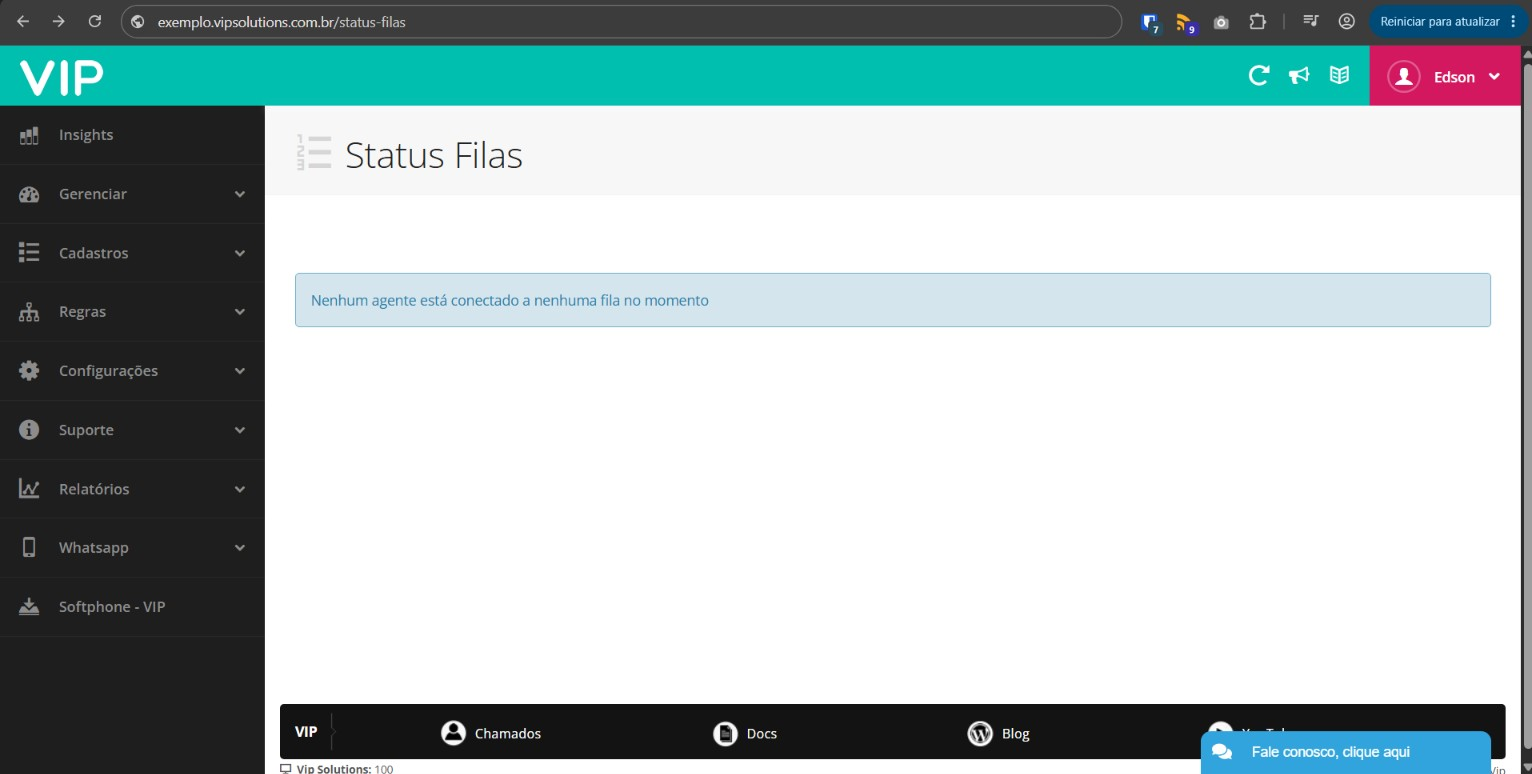
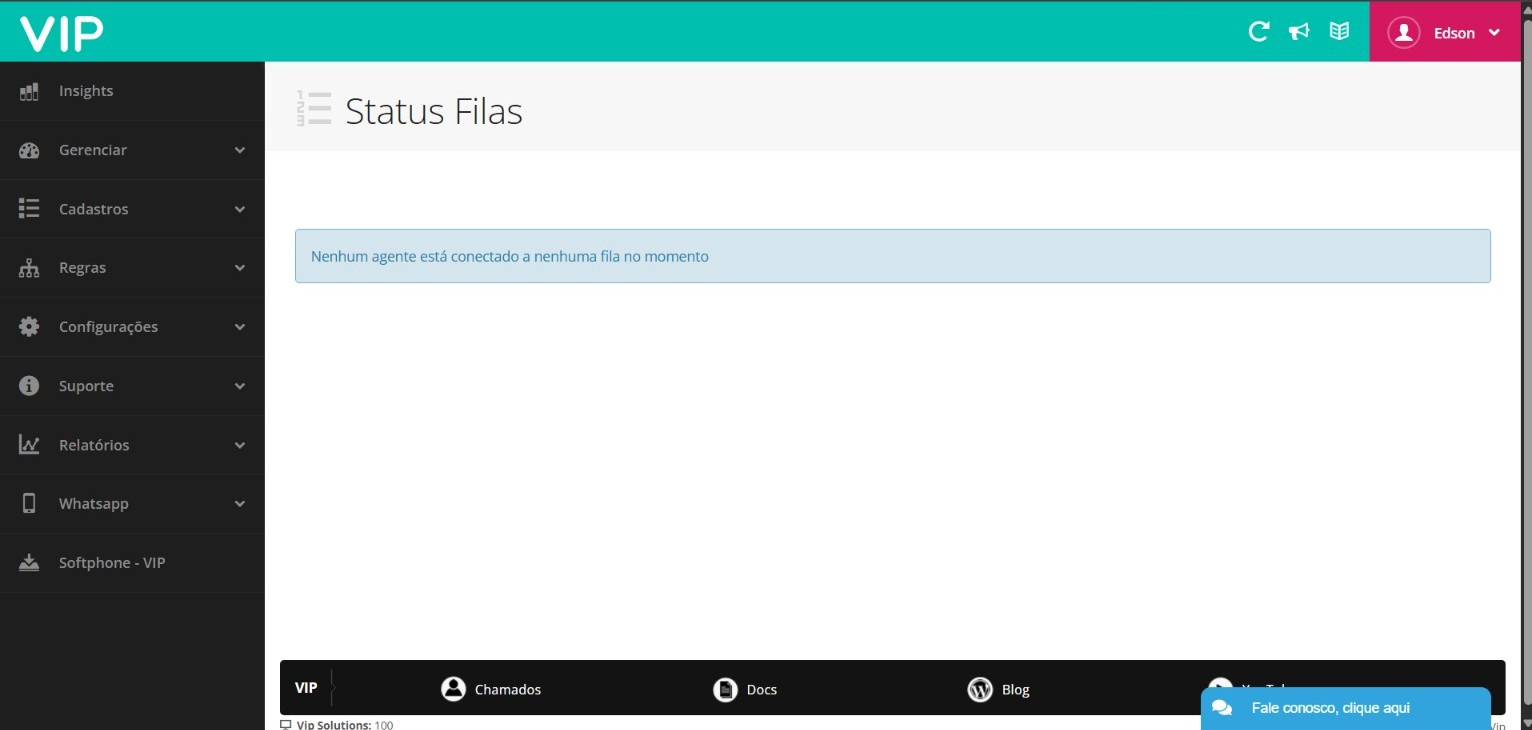
Ajuste no README e att do implantação de clientes

diff --git a/docs/suporte/implantacao-clientes.md b/docs/suporte/implantacao-clientes.md
@@ -63,4 +63,113 @@ Todas as informações do novo cliente ficam registradas via ticket no sistemas 
 
 Acesse o painel VIP correspondente ao servidor definido pela equipe de implantação, depois no menu lateral esquerdo > Gerenciar > Gerenciar uma Empresa, selecione a empresa do novo cliente.
 
-Inicie as configurações criando os ramais
+### Cadastrar Ramais
+
+Tela `Cadastros > Ramais`, nessa tela é necessário configurar:
+
+- Ramais individualmente ou em lote
+- O dispositivo que será utilizado: Telefone IP, Celular, PC, MicroVIP (VipPhone)
+- Senha de registro (importante definir uma senha dificil com letras e números)
+- Nome do ramal (para configuração individual)
+- Senha do ramal (senha de funcionalidade)
+- Qualidade (monitoria do ramal no VIP)
+- Ordem dos codecs (Ulaw, Alaw, g729)
+- Utiliza NAT em **sim**
+- Bina (número que aparece nas chamadas realizadas pelo ramal)
+
+### Grupo de chamada
+
+Tela `Cadastros > Grupo de chamada`
+
+Caso o cliente necessite que uma chamada toque em um conjunto de ramais específicos, crie um grupo de chamada definindo:
+
+- Nome de grupo (facilitando a identificação na configuração das regras de discagem)
+- Música de espera (áudio que o cliente ouve enquanto aguarda atendimento)
+- Anúncio (Também conhecido como sussurro, é um áudio reproduzido ao atender a chamada, identificando a origem da mesma)
+- Ramais (selecione os ramais que podem receber chamadas desse grupo)
+- Grupo de captura (oermite a captura de chamadas para os ramais vinculados ao grupo)
+- Tipos de toque
+    - Tocar em todos (toca em todos os ramais selecionados)
+    - Tocar aleatóriamente (toca aleatóriamente em qualquer um dos ramais selecionados)
+    - Tocar no mais ocioso (toca no ramal que está a mais tempo sem atender chamadas)
+- Tempo de toque
+    É o tempo que a chamada toca em um ramal do grupo antes de começar a tocar em outro (nos casos do aleatoriamente ou mais ocioso)
+    
+### Grupo de captura
+
+Tela `Cadastros > Grupo de captura`
+
+Crie o(s) grupo(s) e depois vincule(os) aos ramais a partir da coluna `Membros` 
+
+O grupo de captura serve para que um ramal possa capturar uma chamada de outro ramal que faz parte do mesmmo grupo com o comando `*8`, esse comando puxa a chamada de outro ramal para o ramal que executou o comando
+
+### Músicas do Sistema
+
+Tela `Cadastros > Músicas do Sistema`
+
+Para clientes que desejam configurar um áudio de espera para fila de atendimento, grupo de chamada, URA de atendimento, o arquivo de áudio deve ter os seguintes parâmetros:
+
+- Canal Mono
+- Frequência de 8000Hz
+- 16-bit
+- Wave (.wav)
+
+Observação: o nome do arquivo não deve possuir caracteres especiais, no lugar dos espaços, utilizar o _ (underline) entre as palavras, assim o asterisk não terá problema em fazer a conversão do áudio para o asterisk ler e reproduzir na ligação.
+
+### Rotas
+
+Tela `Cadastros > Rotas`
+
+Crie uma rota para ligações saintes, geralmente nomeada como `SAIDAS_JUPITER` ou qualquer outra nomenclatura que remeta a uma operadora contratada pelo cliente ou algum servidor VIP específica.
+
+### Rotas (Ordem)
+
+Tela `Cadastros > Rotas (Ordem)`
+
+Selecione a rota criada anteriormente e defina o tronco de saída, sempre na coluna `TRONCO 1`, os centro de custos que devem ter um tronco vinculado são:
+
+- LOCAL
+- DDD
+- VC1
+- VC2
+- FUNCIONALIDADE
+
+Observação: não é todo cliente que contrata o completamento `DDI`, mas se for o caso, uma rota `SAIDAS_DDI` deve ser criada em pararelo e o tronco deve ser vinculado ao centro de custos `DDI`
+
+### Usuários
+
+Tela `Cadastros > Usuários`
+
+Crie os acessos baseado nas informações preenchidas no formulário anexado no ticket, informe:
+
+- Nome
+- Email (utilizado na recuperação de senha)
+- Login (individual e único)
+- Senha
+- Perfil (o VIP tem a descrição do que cada perfil tem acesso)
+
+Observação: os usuários listados no formulário já devem ter o perfil selecionado.
+
+### Uras do Sistema
+
+Tela `Cadastros > Uras do Sistema`
+
+Para clientes que desejam uma URA de atendmimento, a mesma deve ser criada com:
+
+- Título (Para fácil identificação no relatório Estatítiscas da URA e na configuração de regras de discagem)
+- Tempo de duração em 2
+- Tempo de digitação em 2
+- Mensagem da URA (áudio cadastrado anteriormente na tela `Músicas do Sistema`)
+
+#### Customização da URA
+
+- Redirecionamento na discagem de número inválido ou tempo excedido
+- Discar ramal desejado
+- Opções de atendimento
+
+#### Ações da URA
+
+- Desligar (desliga a chamada ao discar alguma opção)
+- Voltar ao inicio (reproduz o áudio da URA novamente)
+- Discar para ramal (ao discar uma opção, o sistema redireciona a chamada para o ramal selecionado)
+- Grupo de chamada ()

diff --git a/docs/README.md b/docs/README.md
@@ -23,7 +23,7 @@ Bem-vindo à wiki de infraestrutura da empresa. Este repositório centraliza doc
 
 <div class="alert-public">
 
-**Atenção:** este repositório é **público**. Não inclua senhas, tokens ou chaves privadas.
+**Atenção:** este repositório é **público**. Não inclua URLs válidas, senhas, tokens ou chaves privadas.
 
 </div>
 
